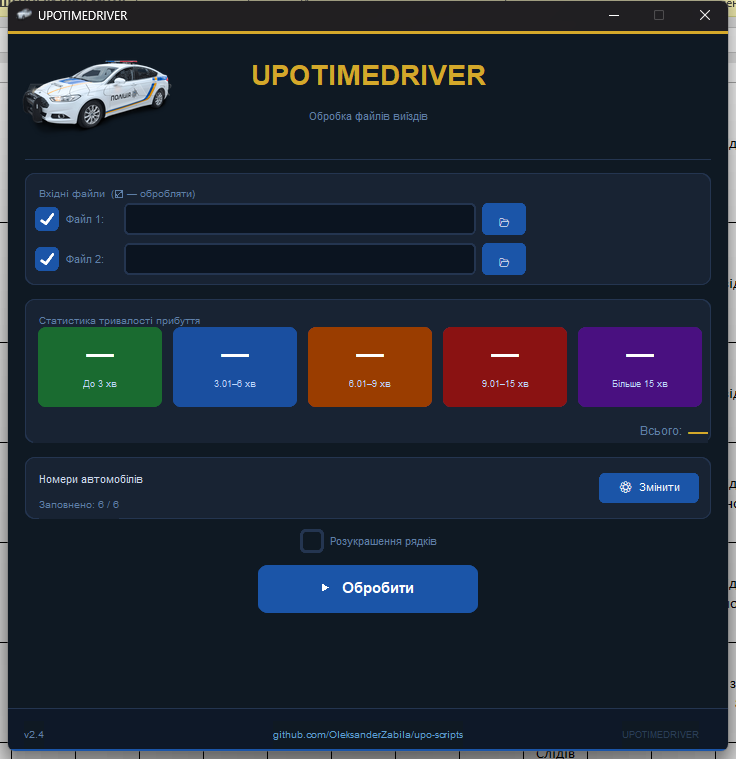
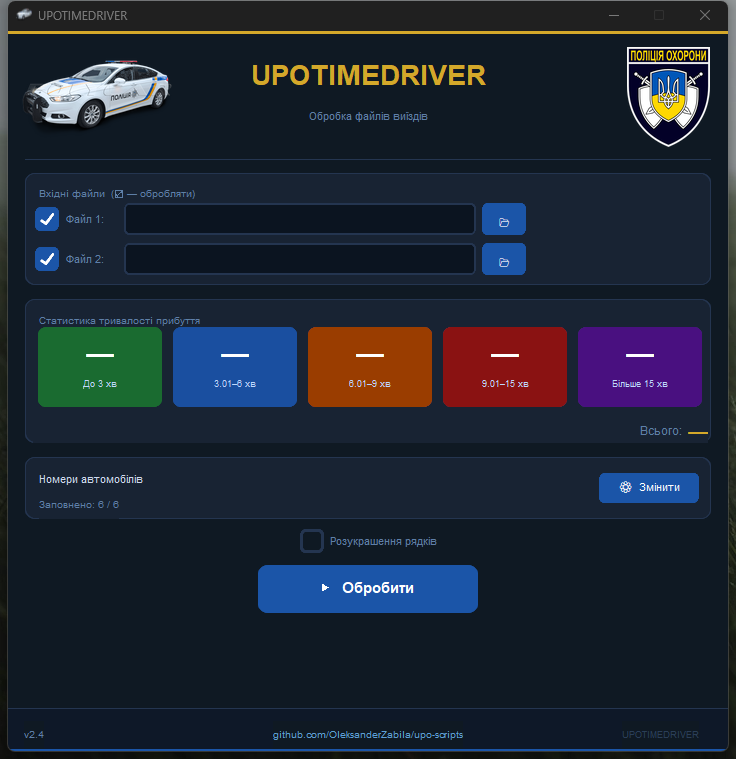
fix: correct column E source, restore UPO emblem in header
- Output col E (Час прийому виклику) now reads input col G (departure time)
- Output col G (Час відбуття) now reads input col H (arrival time)
- Duration formula =MINUTE(G-E) computes arrival duration
- Replace runtime SVG rendering with pre-rasterized upo_emblem.png — tksvg
  binaries weren't being bundled into the exe, breaking the emblem display

Changed region(s): [[0.0, 0.0, 1.0, 1.0], [0.0625, 0.0, 0.1875, 0.0303], [0.875, 0.0, 0.9062, 0.0303]]

diff --git a/УПО_Scripts.py b/УПО_Scripts.py
@@ -2,7 +2,6 @@
 import os, sys, json, tkinter as tk, webbrowser
 from tkinter import filedialog
 import customtkinter as ctk
-import tksvg
 from PIL import Image
 import pandas as pd
 from openpyxl import Workbook
@@ -11,9 +10,20 @@ from openpyxl.utils import get_column_letter
 from datetime import datetime
 
 # ── paths ─────────────────────────────────────────────────────────────────────
+def _ascii_path(p):
+    """Windows short (8.3) path — tksvg/tk fail on non-ASCII characters."""
+    try:
+        import ctypes
+        buf = ctypes.create_unicode_buffer(512)
+        if ctypes.windll.kernel32.GetShortPathNameW(p, buf, 512) and buf.value:
+            return buf.value
+    except Exception:
+        pass
+    return p
+
 BASE_DIR   = os.path.dirname(os.path.abspath(sys.argv[0]))
 BUNDLE_DIR = getattr(sys, '_MEIPASS', BASE_DIR)
-SVG_PATH   = os.path.join(BUNDLE_DIR, 'Security_Police_of_Ukraine_emblem.svg')
+EMBLEM_PATH= os.path.join(BUNDLE_DIR, 'upo_emblem.png')
 ICO_PATH   = os.path.join(BUNDLE_DIR, 'patrol-polycar.ico')
 PNG_PATH   = os.path.join(BUNDLE_DIR, 'patrol-polycar.png')
 _APP_DATA  = os.path.join(os.environ.get('APPDATA', BASE_DIR), 'UPOTIMEDRIVER')
@@ -106,8 +116,9 @@ def load_frames(paths):
     def valid(row):
         try:
             return (
-                hasattr(row[1], 'total_seconds') and
-                hasattr(row[6], 'total_seconds') and
+                hasattr(row[1], 'total_seconds') and   # call B
+                hasattr(row[6], 'total_seconds') and   # departure G
+                hasattr(row[7], 'total_seconds') and   # arrival H
                 pd.notna(row[3]) and str(row[3]).strip() != '' and
                 pd.notna(row[5]) and str(row[5]).strip() != ''
             )
@@ -177,8 +188,9 @@ def convert(df, car_map, colorize=False, src_path=''):
 
     for ri, (_, row) in enumerate(df.iterrows(), 2):
         try:
-            cs  = td_serial(row[1])
-            ds  = td_serial(row[6])
+            cs  = td_serial(row[1])      # call reception (input B)
+            ds  = td_serial(row[6])      # departure     (input G)
+            as_ = td_serial(row[7])      # arrival       (input H)
             car = get_car(row[5], car_map)
             date_val = str(row.get('_date', '')).strip()
         except Exception:
@@ -190,14 +202,14 @@ def convert(df, car_map, colorize=False, src_path=''):
             if fmt: c.number_format = fmt
             if colorize and ri % 2 == 0: c.fill = afil
 
-        wr(1, date_val)
-        wr(2, cs,             'H:MM:SS')
-        wr(3, row[2],         al=left)
-        wr(4, row[3],         al=left)
-        wr(5, cs,             'HH:MM:SS')
-        wr(6, row[5])
-        wr(7, ds,             'H:MM:SS')
-        wr(8, f'=MINUTE(G{ri}-E{ri})')
+        wr(1, date_val)                          # Дата
+        wr(2, cs,             'H:MM:SS')         # ТП          = input B
+        wr(3, row[2],         al=left)           # Назва       = input C
+        wr(4, row[3],         al=left)           # Адреса      = input D
+        wr(5, ds,             'HH:MM:SS')        # Час прийому виклику = input G
+        wr(6, row[5])                            # Наряд       = input F
+        wr(7, as_,            'H:MM:SS')         # Час відбуття = input H
+        wr(8, f'=MINUTE(G{ri}-E{ri})')           # Тривалість = H − G
         wr(9, car)
 
     for i, w in enumerate([12, 10, 30, 34, 12, 12, 10, 12, 18], 1):
@@ -383,27 +395,12 @@ class UPOApp(ctk.CTk):
     def _build_bg(self):
         c = tk.Canvas(self, bg=BG, highlightthickness=0)
         c.place(x=0, y=0, width=W, height=H)
-        if os.path.exists(SVG_PATH):
-            try:
-                self._bg_emb = tksvg.SvgImage(file=SVG_PATH, scaletowidth=200)
-                c.create_image(W // 2, H // 2, image=self._bg_emb)
-                c.create_rectangle(0, 0, W, H, fill=BG, stipple='gray75')
-            except Exception:
-                pass
 
         # accent lines
         c.create_rectangle(0, 0, W, 3,     fill=GOLD,   outline='')
         c.create_rectangle(0, H-42, W, H-2, fill='#0E1828', outline='')
         c.create_rectangle(0, H-43, W, H-42, fill=BORDER, outline='')
         c.create_rectangle(0, H-2, W, H,    fill=BTN,    outline='')
-
-        # header emblem on right
-        if os.path.exists(SVG_PATH):
-            try:
-                self._hdr_emb = tksvg.SvgImage(file=SVG_PATH, scaletowidth=92)
-                c.create_image(W - 62, 64, image=self._hdr_emb)
-            except Exception:
-                pass
 
     # ── main UI ───────────────────────────────────────────────────────────────
     def _build_ui(self):
@@ -432,7 +429,18 @@ class UPOApp(ctk.CTk):
                      font=('Arial', 11), text_color=MUTED,
                      fg_color='transparent').place(relx=0.5, y=65, anchor='n')
 
-        # (UPO emblem rendered on background canvas in _build_bg)
+        # UPO emblem — right side of header (PNG via CTkImage)
+        if os.path.exists(EMBLEM_PATH):
+            try:
+                emb = Image.open(EMBLEM_PATH).convert('RGBA')
+                emb.thumbnail((100, 100), Image.LANCZOS)
+                self._hdr_emb = ctk.CTkImage(light_image=emb, dark_image=emb,
+                                             size=(emb.width, emb.height))
+                ctk.CTkLabel(hdr, image=self._hdr_emb, text='',
+                             fg_color='transparent'
+                             ).place(x=W - 18 - emb.width, y=10)
+            except Exception:
+                pass
 
         sep = tk.Canvas(self, bg=BORDER, highlightthickness=0, height=1)
         sep.place(x=17, y=128, width=W - 34)